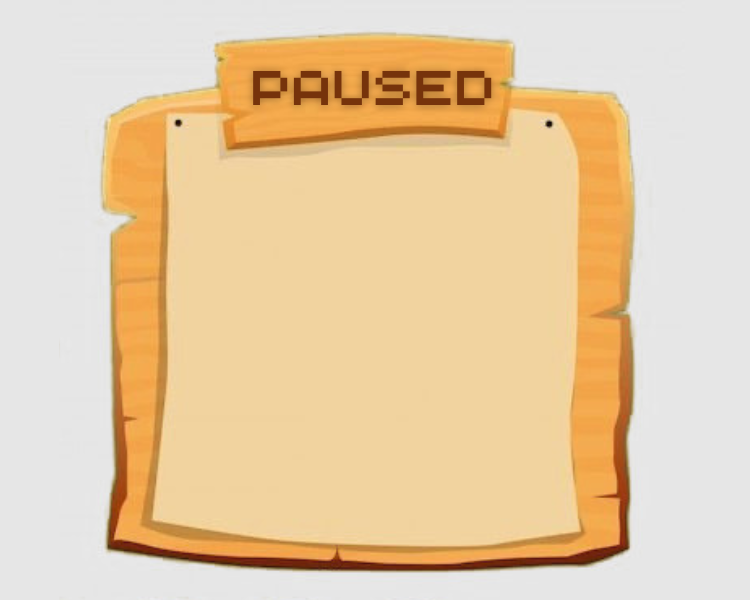
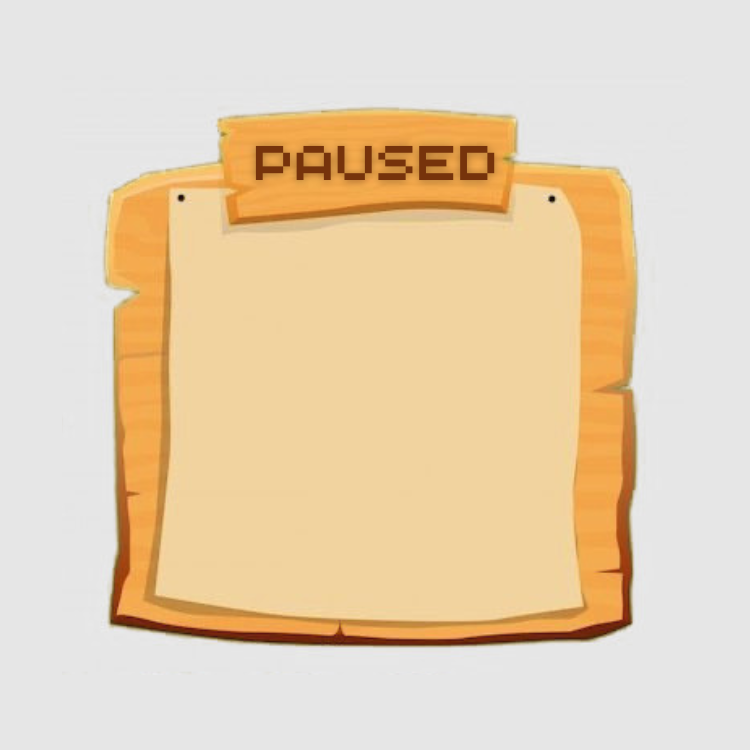
commited

Changed region(s): [[0.1227, 0.03, 0.8587, 0.96]]

diff --git a/BlinkMatchMemory/src/blinkmatch/panels/GamePanel.java b/BlinkMatchMemory/src/blinkmatch/panels/GamePanel.java
@@ -223,10 +223,8 @@ public class GamePanel extends BasePanel {
         JButton pauseBtn = makeButton(pauseIcon, 50, 50);
 
         pauseBtn.addActionListener(e -> {
-
-
-                pauseGame();
-                pauseOverlay.repaint();
+            pauseGame();
+            pauseOverlay.repaint();
         });
 
         
@@ -245,11 +243,11 @@ public class GamePanel extends BasePanel {
             {
                 super.paintComponent(g);
                 g.drawImage(
-                    new ImageIcon("src/resources/PauseImage.png").getImage(),
+                    new ImageIcon("src/resources/images/PauseImage.png").getImage(),
                     0,
                     0,
                     750,
-                    600,
+                    750,
                     null);
             }
         }; 
@@ -272,15 +270,18 @@ public class GamePanel extends BasePanel {
         ImageIcon restartIcon = new ImageIcon("src/resources/images/restartIcon.png");
         ImageIcon exitIcon = new ImageIcon("src/resources/images/quitIcon.png");
         
-        JButton resumeBtn = makeButton(resumeIcon, 150,90);
-        JButton restartBtn = makeButton(restartIcon, 150,90);
-        JButton quitBtn    = makeButton(exitIcon, 150,90);
+        int buttonX = 150;
+        int buttonY = 175;
+        
+        JButton resumeBtn = makeButton(resumeIcon, buttonX,buttonY);
+        JButton restartBtn = makeButton(restartIcon, buttonX,buttonY);
+        JButton quitBtn    = makeButton(exitIcon, buttonX,buttonY);
 
         for (JButton btn : new JButton[]{resumeBtn, restartBtn, quitBtn}) {
             btn.setFont(new Font("SansSerif", Font.BOLD, 18));
             btn.setAlignmentX(Component.CENTER_ALIGNMENT);
             btn.setFocusPainted(false);
-            btn.setMaximumSize(new Dimension(200, 50));
+            btn.setMaximumSize(new Dimension(buttonX, buttonY));
         }
 
         resumeBtn.addActionListener(e -> resumeGame());
@@ -296,15 +297,19 @@ public class GamePanel extends BasePanel {
             cardLayout.show(GameWindow.container, "START");
         });
 
-        menuBox.add(pauseTitle);
-        menuBox.add(Box.createVerticalStrut(40)); // Space between title and buttons
-        menuBox.add(resumeBtn);
-        menuBox.add(Box.createVerticalStrut(15));
-        menuBox.add(restartBtn);
-        menuBox.add(Box.createVerticalStrut(15));
-        menuBox.add(quitBtn);
+        //menuBox.add(pauseTitle);
 
+        menuBox.add(Box.createVerticalGlue());
+        menuBox.add(resumeBtn);
+        menuBox.add(Box.createRigidArea(new Dimension(10, 10)));
+        menuBox.add(restartBtn);
+        menuBox.add(Box.createRigidArea(new Dimension(10, 10)));
+        menuBox.add(quitBtn);
+        menuBox.add(Box.createVerticalGlue());
+        
         overlay.add(menuBox);
+
+
         return overlay;
     }
 
@@ -372,6 +377,7 @@ public class GamePanel extends BasePanel {
         canFlip = false; // Prevent card clicks
         isPaused = true;
         pauseOverlay.setVisible(true); // Show the semi-transparent overlay
+        
     }
     
     private void resumeGame() {

diff --git a/BlinkMatchMemory/src/blinkmatch/panels/StartPanel.java b/BlinkMatchMemory/src/blinkmatch/panels/StartPanel.java
@@ -38,7 +38,7 @@ public class StartPanel extends BasePanel{
         setLayout(new BoxLayout(this, BoxLayout.X_AXIS));
         setBackground(bgColor());
 
-        setBorder(BorderFactory.createEmptyBorder(250, 60, 0, 60));
+        setBorder(BorderFactory.createEmptyBorder(450, 60, 0, 60));
         // panel.setImage(new Image(new File("src/resources/gifs/landscape.gif")));
         bg = new ImageIcon(
                         "src/resources/gifs/landscape.gif"
@@ -58,9 +58,14 @@ public class StartPanel extends BasePanel{
         subtitle.setAlignmentX(Component.CENTER_ALIGNMENT);
 
         // --- buttons ---
-        JButton startBtn =  makeButton(startIcon, 170, 150);
-        JButton quitButton =  makeButton(quitIcon,  125, 95);
-        JButton helpBtn  = makeButton(helpIcon,  125, 95);
+        int smolSizeX = 300;
+        int smolSizeY = 200;
+        int beegSizX = 400;
+        int beegSizY = 375;
+
+        JButton startBtn =  makeButton(startIcon, beegSizX, beegSizY);
+        JButton quitButton =  makeButton(quitIcon,  smolSizeX, smolSizeY);
+        JButton helpBtn  = makeButton(helpIcon,  smolSizeX, smolSizeY);
 
         //startBtn.setAlignmentX(Component.CENTER_ALIGNMENT);
         //helpBtn.setAlignmentX(Component.CENTER_ALIGNMENT);

diff --git a/BlinkMatchMemory/src/blinkmatch/GameWindow.java b/BlinkMatchMemory/src/blinkmatch/GameWindow.java
@@ -49,7 +49,9 @@ public class GameWindow {
 
         frame.setDefaultCloseOperation(JFrame.EXIT_ON_CLOSE);
        // frame.setSize(650, 750);
-        frame.setMinimumSize(new Dimension(750, 750));
+        // frame.setMinimumSize(new Dimension(750, 750));
+        frame.setUndecorated(true);
+        frame.setExtendedState(JFrame.MAXIMIZED_BOTH);
         frame.setLocationRelativeTo(null);
         frame.add(container);
 
